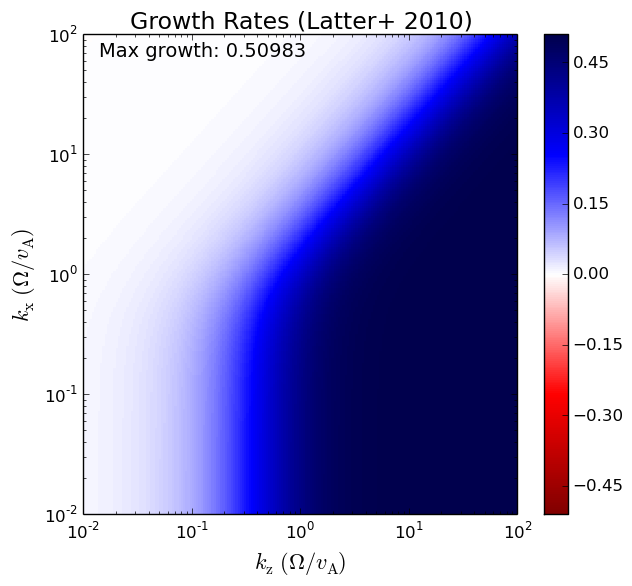
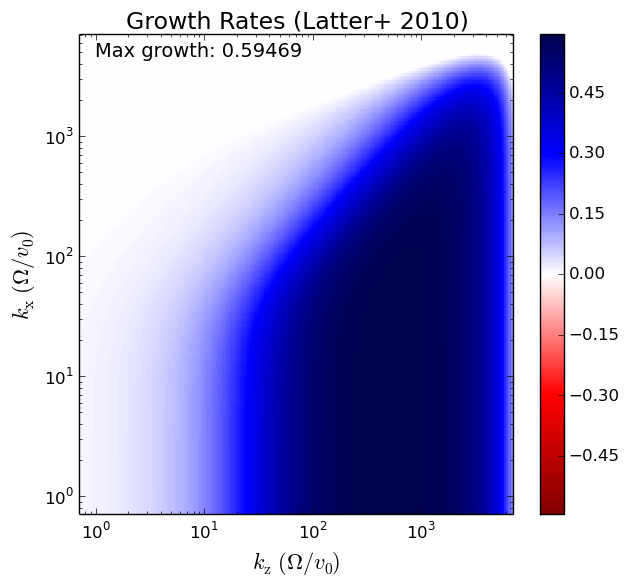
added hall effect working in kx kz matrix with dimensions too

diff --git a/latter10-kxkz-growth-rate-diagram-with-hall.py b/latter10-kxkz-growth-rate-diagram-with-hall.py
@@ -38,17 +38,17 @@ pert_amp = 1.0e-6
 
 # Variable parameters
 big_lambda = 1.0e10 # 1.0e16 or 1.0
-N_squared = 0.1 #-0.1 # or 0.0
+N_squared = 0.0 #-0.1 # or 0.0
 
 # Problem parameters
 kappa_squared = 1.0
 omega_squared = 1.0
 omega_power = -1.5
 omega_squared_power = -3.0
-eta = 2.34e17
+eta = 2.34e12
 xi = roberts_q * eta
 
-beta = 1.0e5 # Plasma beta parameter for (inverse) vertical field strength
+beta = 1.0e4 # Plasma beta parameter for (inverse) vertical field strength
 #va2 = 2.0 * cs2 / beta # Alfven velocity squared
 alfven_velocity_squared = 2.0 * cs2 / beta # Alfven velocity squared
 eta = alfven_velocity_squared / big_lambda
@@ -192,9 +192,9 @@ class OneFluidMatrices:
         matrix_a[1] = np.array([-ikx, -dissipation, 2.0, 0, ikz * alfven_velocity_squared, 0, 0, -N_squared / omega_squared])
         matrix_a[2] = np.array([0, -0.5, -dissipation, 0, 0, ikz * alfven_velocity_squared, 0, 0])
         matrix_a[3] = np.array([-ikz, 0, 0, -dissipation, 0, 0, ikz * alfven_velocity_squared, 0])
-        matrix_a[4] = np.array([0, ikz, 0, 0, -ksq * eta, -0.5 * np.power(kz, 2.0) / big_lambda_H, 0, 0])
-        matrix_a[5] = np.array([0, 0, ikz, 0, omega_power + 0.5 * np.power(kz, 2.0) / big_lambda_H, -ksq * eta, -0.5 * kx * kz / alfven_velocity_squared / big_lambda_H, 0]) # Careful about the negative signs! (Remember the negative from k^2)
-        matrix_a[6] = np.array([0, 0, 0, ikz, 0, 0.5 * kx * kz / alfven_velocity_squared / big_lambda_H, -ksq * eta, 0])
+        matrix_a[4] = np.array([0, ikz, 0, 0, -ksq * eta, -0.5 * np.power(kz, 2.0) * alfven_velocity_squared / big_lambda_H, 0, 0])
+        matrix_a[5] = np.array([0, 0, ikz, 0, omega_power + 0.5 * np.power(kz, 2.0) * alfven_velocity_squared / big_lambda_H, -ksq * eta, -0.5 * kx * kz * alfven_velocity_squared / big_lambda_H, 0]) # Careful about the negative signs! (Remember the negative from k^2)
+        matrix_a[6] = np.array([0, 0, 0, ikz, 0, 0.5 * kx * kz * alfven_velocity_squared / big_lambda_H, -ksq * eta, 0])
         matrix_a[7] = np.array([0, 1.0, 0, 0, 0, 0, 0, -xi * ksq])
 
         return (matrix_a, matrix_b)
@@ -249,7 +249,7 @@ class OneFluidMatrices:
 
 def OneFluidEigen(kx, kz):
     matrix = OneFluidMatrices(kx, kz)
-    a, b = matrix.Latter2010xz_hall(big_lambda_H = -0.4)
+    a, b = matrix.Latter2010xz_v0_hall(big_lambda_H = -0.4)
 
     try:
         eigenvalues, eigenvectors = scipy.linalg.eig(a, b)
@@ -318,8 +318,8 @@ def make_plot(show = True):
     #kzs = np.linspace(1, 1e5, num_ks)
 
     if log_axes:
-        kxs = np.logspace(-2, 2, num_ks) #/ np.sqrt(alfven_velocity_squared)
-        kzs = np.logspace(-2, 2, num_ks) #/ np.sqrt(alfven_velocity_squared)
+        kxs = np.logspace(-2, 2, num_ks) / np.sqrt(alfven_velocity_squared)
+        kzs = np.logspace(-2, 2, num_ks) / np.sqrt(alfven_velocity_squared)
 
     growth_rates = np.zeros((len(kxs), len(kzs)))
 
@@ -358,10 +358,10 @@ def make_plot(show = True):
         plot.yscale("log")
 
     # Annotate
-    plot.xlabel(r'$k_\mathrm{z}$ $(\Omega / v_\mathrm{A})$', fontsize = fontsize)
-    plot.ylabel(r'$k_\mathrm{x}$ $(\Omega / v_\mathrm{A})$', fontsize = fontsize)
-    #plot.xlabel(r'$k_\mathrm{z}$ $(\Omega / v_\mathrm{0})$', fontsize = fontsize)
-    #plot.ylabel(r'$k_\mathrm{x}$ $(\Omega / v_\mathrm{0})$', fontsize = fontsize)
+    #plot.xlabel(r'$k_\mathrm{z}$ $(\Omega / v_\mathrm{A})$', fontsize = fontsize)
+    #plot.ylabel(r'$k_\mathrm{x}$ $(\Omega / v_\mathrm{A})$', fontsize = fontsize)
+    plot.xlabel(r'$k_\mathrm{z}$ $(\Omega / v_\mathrm{0})$', fontsize = fontsize)
+    plot.ylabel(r'$k_\mathrm{x}$ $(\Omega / v_\mathrm{0})$', fontsize = fontsize)
     plot.title(r'Growth Rates (Latter+ 2010)', fontsize = fontsize + 1)
 
     x_text = 0.04 * max(x); y_text = 0.92 * max(x)
